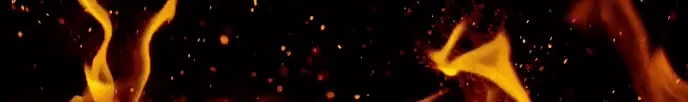
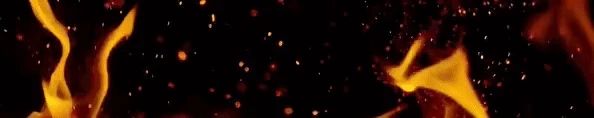
Fix: restore flame nameplate animation with proper WebP format
Replaced misnamed GIF file with proper WebP format flame animation.
Updated all references from flame-bg.gif to flame-bg.webp.
Flame nameplate now animates correctly.

diff --git a/index.html b/index.html
@@ -857,7 +857,7 @@
     right:0;
     bottom:0;
     pointer-events:none;
-    background-image:url('flame-bg.gif');
+    background-image:url('flame-bg.webp');
     background-size:cover;
     background-position:center;
     background-repeat:no-repeat;
@@ -5295,7 +5295,7 @@ function renderShopModal(){
     if(state.editingShopItemId === item.id) return renderEditForm(item);
     const canAfford = gold >= item.cost;
     const owned = state.shopPurchases && state.shopPurchases.some(p => p.item_id === item.id && p.fulfilled);
-    const gifMap = {flame:'flame-bg.gif', star:'star-bg.gif', shadow:'shadow-bg.gif', techno:'shadow-bg.gif', anime:'anime-headphones.gif', lightning:'lightning.gif'};
+    const gifMap = {flame:'flame-bg.webp', star:'star-bg.gif', shadow:'shadow-bg.gif', techno:'shadow-bg.gif', anime:'anime-headphones.gif', lightning:'lightning.gif'};
     const previewImage = item.image_url || (item.category === 'name_customization' && gifMap[item.metadata?.effect]);
     return `
       <div class="shop-card ${item.active===false?'inactive':''}">
@@ -6459,7 +6459,7 @@ function renderSettings(){
             const item = state.shopItems?.find(i => i.id === p.item_id);
             const isActive = activeId === p.item_id;
             const effect = item?.metadata?.effect || '';
-            const gifMap = {flame:'flame-bg.gif', star:'star-bg.gif', shadow:'shadow-bg.gif', techno:'shadow-bg.gif', anime:'anime-headphones.gif', lightning:'lightning.gif'};
+            const gifMap = {flame:'flame-bg.webp', star:'star-bg.gif', shadow:'shadow-bg.gif', techno:'shadow-bg.gif', anime:'anime-headphones.gif', lightning:'lightning.gif'};
             const gifFile = gifMap[effect] || '';
             return `
             <button class="btn ${isActive ? 'primary' : 'secondary'}" type="button" data-set-name-custom="${p.item_id}" style="padding:12px; text-align:left; display:flex; gap:12px; align-items:flex-start;">
